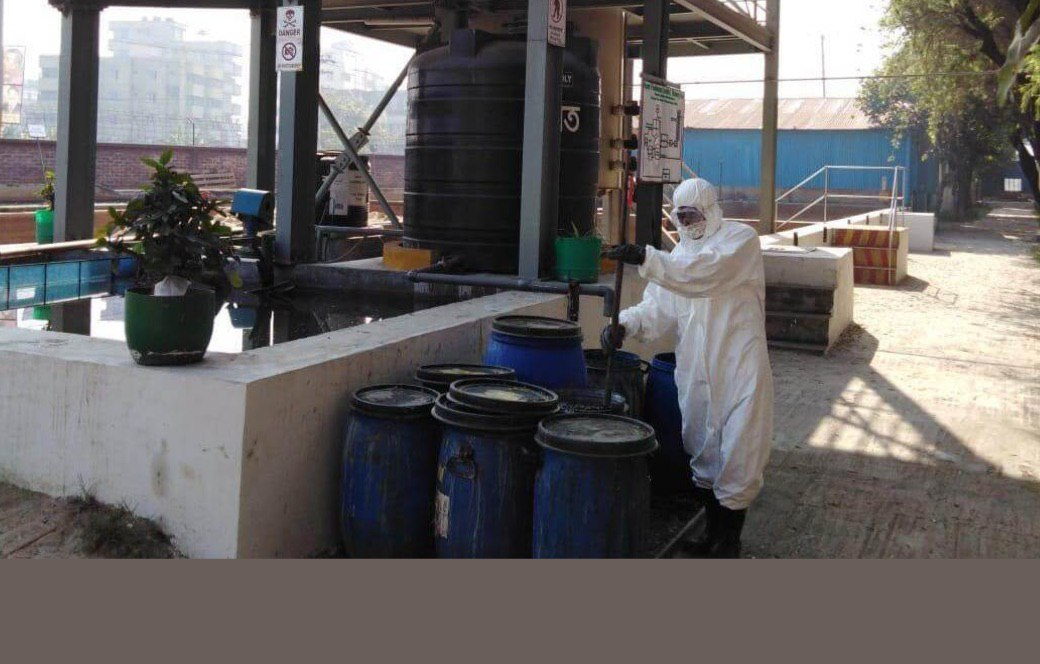
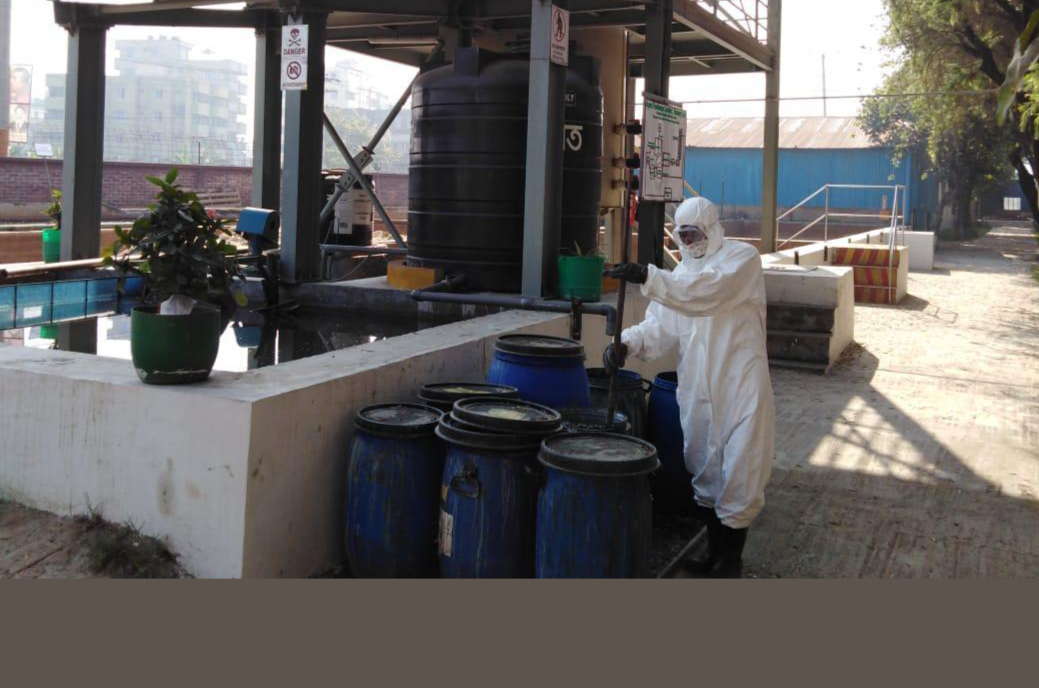
remove data overlay and update hazmat img

diff --git a/index.html b/index.html
@@ -540,7 +540,7 @@
           <br />
         </section>
       </section>
-      <section class="imagebg parallax space--lg border hidden-xxs hidden-xs" data-overlay="2" style="width: 100vw;">
+      <section class="imagebg parallax space--lg border hidden-xxs hidden-xs" data-overlay="0" style="width: 100vw;">
         <div class="background-image-holder">
           <img alt="man in hazmat suit in factory" src="img/hazmat-suit-cropped.jpeg" />
         </div>
